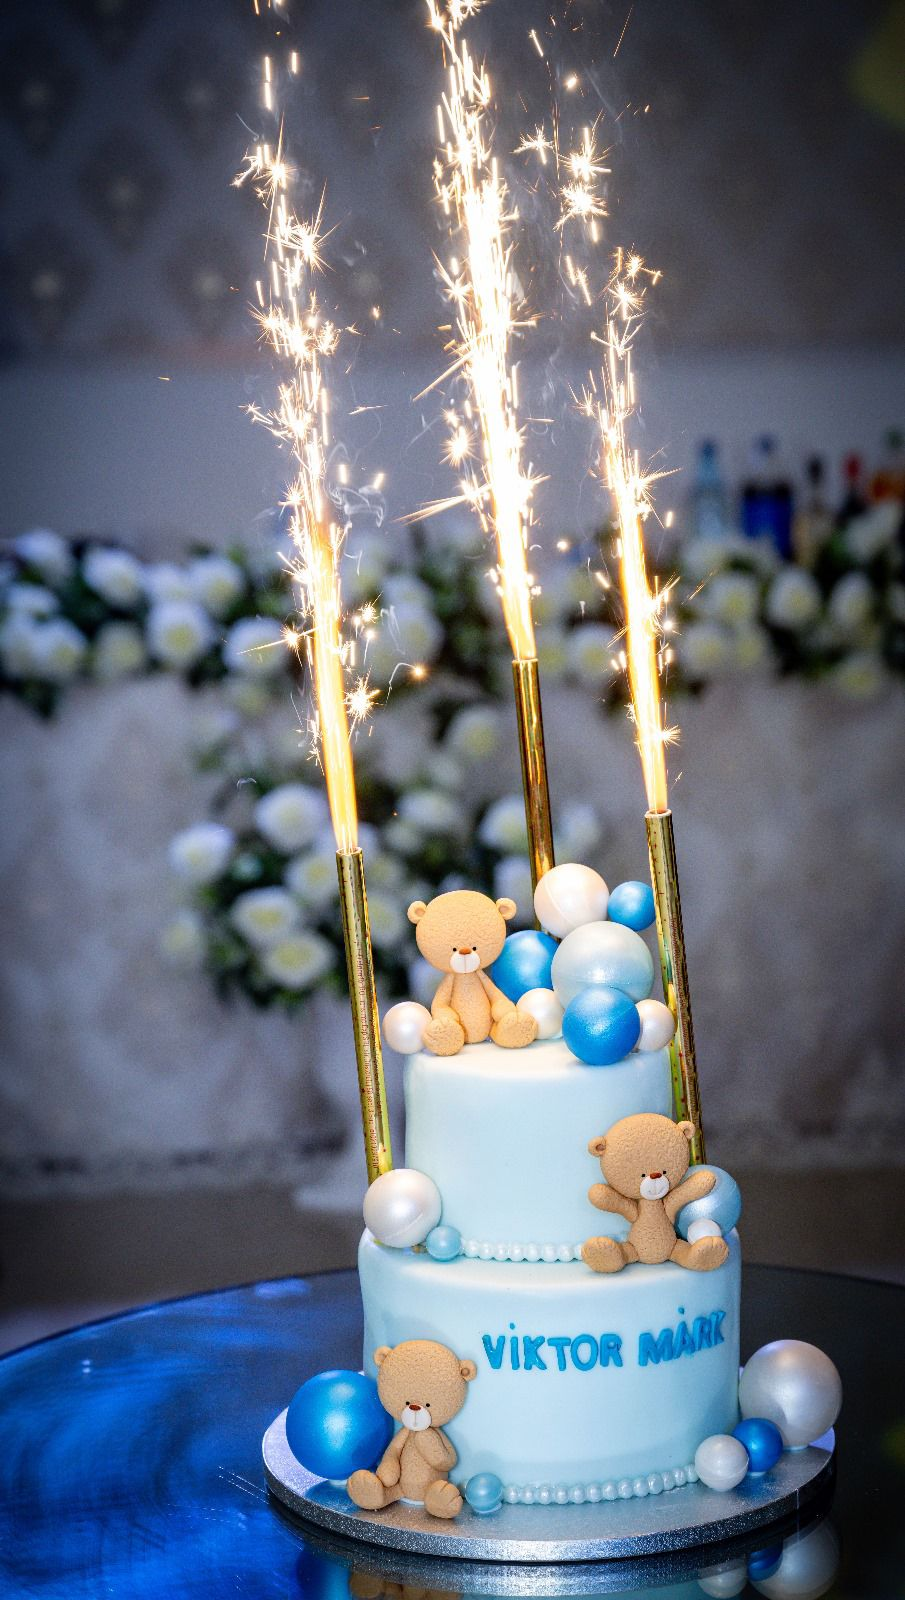
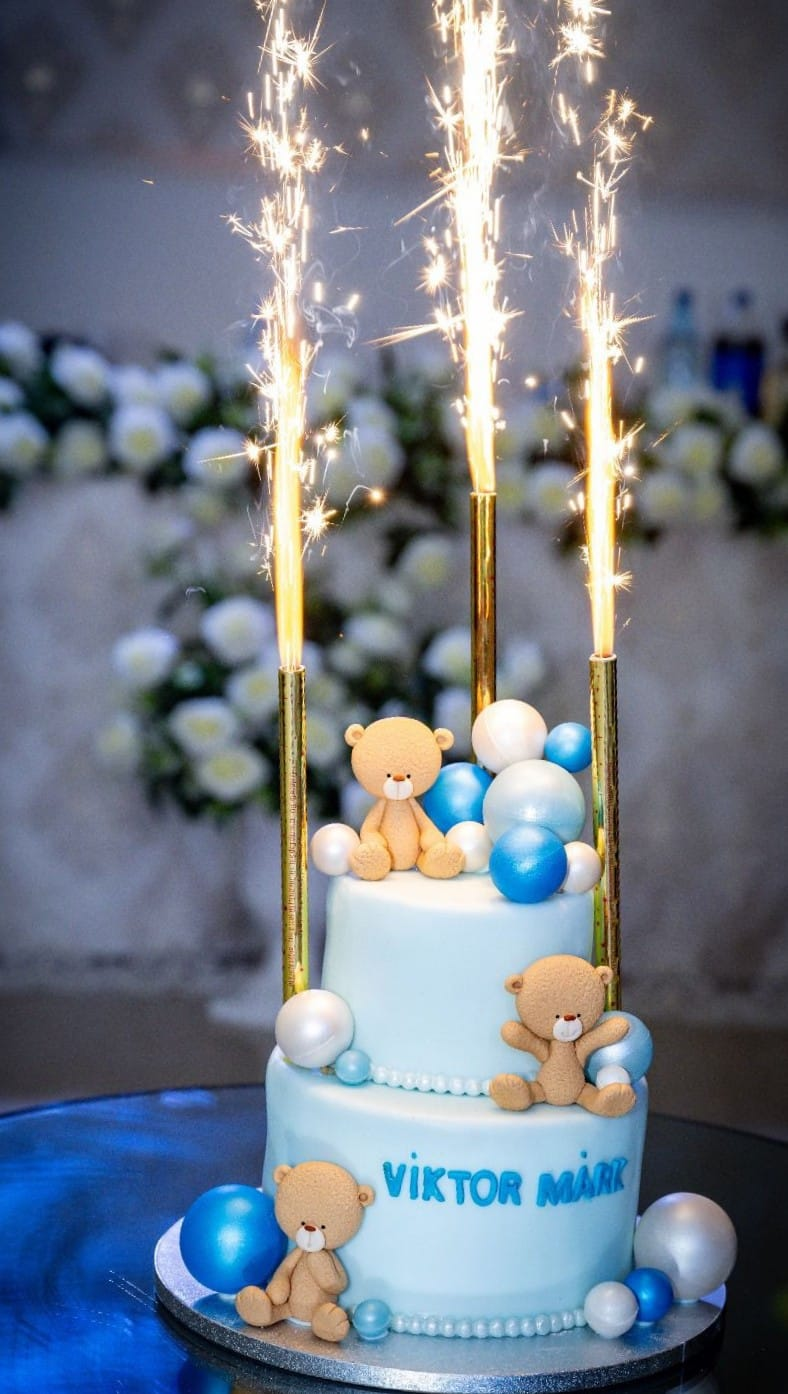
Update style of gallery

diff --git a/index.html b/index.html
@@ -85,57 +85,75 @@
                 Vedeți magia pe care am creat-o și ascultați ce au de spus clienții noștri fericiți despre experiența lor cu PlanBi.
             </p>
             <button class="btn read-more-btn" data-target="portfolio-details">Descoperă</button>
+            
+            
             <div id="portfolio-details" class="portfolio-details">
-                <div class="event">
+                <div class="image-grid">
                     <img src="images/Ballroom-1024.webp"
-                        srcset="
-                        images/Ballroom-360.webp 360w,
-                        images/Ballroom-720.webp 720w,
-                        images/Ballroom-1024.webp 1024w,
-                        images/Ballroom-1440.webp 1440w,
-                        images/Ballroom-1920.webp 1920w" 
-                        sizes="(max-width: 360px) 360px,
-                               (max-width: 720px) 720px,
-                               (max-width: 1024px) 1024px,
-                               (max-width: 1440px) 1440px,
-                               (max-width: 1920px) 1920px"
-                        alt="Eveniment PlanBi" />
-                    <p class="fancy-text text"></p>
-                    <p class="fancy-text gallery">Galerie</p>
-                </div>
-                <div class="event">
+                    srcset="
+                    images/Ballroom-360.webp 360w,
+                    images/Ballroom-720.webp 720w,
+                    images/Ballroom-1024.webp 1024w,
+                    images/Ballroom-1440.webp 1440w,
+                    images/Ballroom-1920.webp 1920w"
+                    sizes="(max-width: 360px) 360px,
+                           (max-width: 720px) 720px,
+                           (max-width: 1024px) 1024px,
+                           (max-width: 1440px) 1440px,
+                           (max-width: 1920px) 1920px"
+                    alt="Eveniment Ballroom" >
                     <img src="images/Telephone-1024.webp"
-                        srcset="
-                        images/Telephone-360.webp 360w,
-                        images/Telephone-720.webp 720w,
-                        images/Telephone-1024.webp 1024w,
-                        images/Telephone-1440.webp 1440w,
-                        images/Telephone-1920.webp 1920w" 
-                        sizes="(max-width: 360px) 360px,
-                               (max-width: 720px) 720px,
-                               (max-width: 1024px) 1024px,
-                               (max-width: 1440px) 1440px,
-                               (max-width: 1920px) 1920px"
-                        alt="Eveniment PlanBi" />
-                    <p class="fancy-text text"></p>
-                    <p class="fancy-text gallery">Galerie</p>
-                </div>
-                <div class="event hover:shadow-2xl transition duration-200 transform hover:-translate-y-1 border border-primary/50">
+                    srcset="
+                    images/Telephone-360.webp 360w,
+                    images/Telephone-720.webp 720w,
+                    images/Telephone-1024.webp 1024w,
+                    images/Telephone-1440.webp 1440w,
+                    images/Telephone-1920.webp 1920w"
+                    sizes="(max-width: 360px) 360px,
+                           (max-width: 720px) 720px,
+                           (max-width: 1024px) 1024px,
+                           (max-width: 1440px) 1440px,
+                           (max-width: 1920px) 1920px"
+                    alt="Eveniment Telephone">
                     <img src="images/Textwall-1024.webp"
-                        srcset="
-                        images/Textwall-360.webp 360w,
-                        images/Textwall-720.webp 720w,
-                        images/Textwall-1024.webp 1024w,
-                        images/Textwall-1440.webp 1440w,
-                        images/Textwall-1920.webp 1920w" 
-                        sizes="(max-width: 360px) 360px,
-                               (max-width: 720px) 720px,
-                               (max-width: 1024px) 1024px,
-                               (max-width: 1440px) 1440px,
-                               (max-width: 1920px) 1920px"
-                        alt="Eveniment PlanBi" />
-                    <p class="fancy-text text text-white absolute bottom-4 left-4"></p>
-                    <p class="fancy-text gallery text-white absolute top-4 right-4">Galerie</p>
+                    srcset="
+                    images/Textwall-360.webp 360w,
+                    images/Textwall-720.webp 720w,
+                    images/Textwall-1024.webp 1024w,
+                    images/Textwall-1440.webp 1440w,
+                    images/Textwall-1920.webp 1920w"
+                    sizes="(max-width: 360px) 360px,
+                           (max-width: 720px) 720px,
+                           (max-width: 1024px) 1024px,
+                           (max-width: 1440px) 1440px,
+                           (max-width: 1920px) 1920px"
+                    alt="Eveniment Textwall">
+                    <img src="images/Cake.jpeg"
+                    srcset="
+                    images/Cake-360.webp 360w,
+                    images/Cake-720.webp 720w,
+                    images/Cake-1024.webp 1024w,
+                    images/Cake-1440.webp 1440w,
+                    images/Cake-1920.webp 1920w"
+                    sizes="(max-width: 360px) 360px,
+                           (max-width: 720px) 720px,
+                           (max-width: 1024px) 1024px,
+                           (max-width: 1440px) 1440px,
+                           (max-width: 1920px) 1920px"
+                    alt="Eveniment Cake">
+                <img src="images/Flowers-1024.webp"
+                    srcset="
+                    images/Flowers-360.webp 360w,
+                    images/Flowers-720.webp 720w,
+                    images/Flowers-1024.webp 1024w,
+                    images/Flowers-1440.webp 1440w,
+                    images/Flowers-1920.webp 1920w"
+                    sizes="(max-width: 360px) 360px,
+                           (max-width: 720px) 720px,
+                           (max-width: 1024px) 1024px,
+                           (max-width: 1440px) 1440px,
+                           (max-width: 1920px) 1920px"
+                    alt="Eveniment Flowers">
                 </div>
             </div>
             <button class="btn read-less-btn" id="portfolio-details-read-less" data-target="portfolio-details">Restrange</button>

diff --git a/static/style.css b/static/style.css
@@ -541,35 +541,48 @@ button {
 	}
 }
 
-.portfolio-details { 
-   display: grid;
-   height: 0;
-   opacity: 0;
-   width: 100%;
-   padding-block: 2rem;
-   box-sizing: border-box;
-   translate: 0 1em;
-   transition: height var(--animation-long) ease var(--animation-long),
-	   opacity var(--animation-long) ease,
-	   translate var(--animation-long) ease;
+.portfolio-details {
+	width: 100%;
+	padding-block: 2rem;
+	box-sizing: border-box;
+	height: 0;
+	opacity: 0;
+	translate: 0 1em;
+	transition: height var(--animation-long) ease var(--animation-long),
+		opacity var(--animation-long) ease,
+		translate var(--animation-long) ease;
 }
 
 .portfolio-details.animate {
-   grid-template-columns: repeat(3, 1fr);
-   gap: 2rem;
-   height: 40rem;
-   opacity: 1;
-   translate: 0 0;
-   transition: height var(--animation-long) ease 0s,
-	   opacity var(--animation-long) ease var(--animation-long),
-	   translate var(--animation-long) ease var(--animation-long);
-
-   @starting-style {
-	   min-height: 0;
-	   opacity: 0;
-	   translate: 0 1em;
-   }
+	height: auto;
+	opacity: 1;
+	translate: 0 0;
+	transition: height var(--animation-long) ease 0s,
+		opacity var(--animation-long) ease var(--animation-long),
+		translate var(--animation-long) ease var(--animation-long);
+	@starting-style {
+		min-height: 0;
+		opacity: 0;
+		translate: 0 1em;
+	}
 }
+
+.portfolio-details .image-grid {
+	column-count: 3;
+	column-gap: 1rem;
+	width: 100%;
+	margin: 0 auto;
+}
+
+.portfolio-details .image-grid img {
+	width: 100%;
+	display: block;
+	margin-bottom: 1rem;
+	border-radius: 1rem;
+	box-shadow: var(--shadow-m);
+	break-inside: avoid;
+}
+
 #services {
 	background-color: var(--primary-xxlight);
 }
@@ -771,9 +784,12 @@ footer {
 		margin-top: 1rem;
 	}
 
+	.portfolio-details .image-grid {
+		column-count: 2;
+	}
+
 	.portfolio-details.animate {
 		height: 115rem;
-		grid-template-columns: repeat(1, minmax(0, 1fr));
 	}
 
 	.services-details.animate {
@@ -807,6 +823,10 @@ footer {
 
 	.small-card {
 		height: 8rem;
+	}
+
+	.portfolio-details .image-grid {
+		column-count: 1;
 	}
 
 	.portfolio-details.animate {
